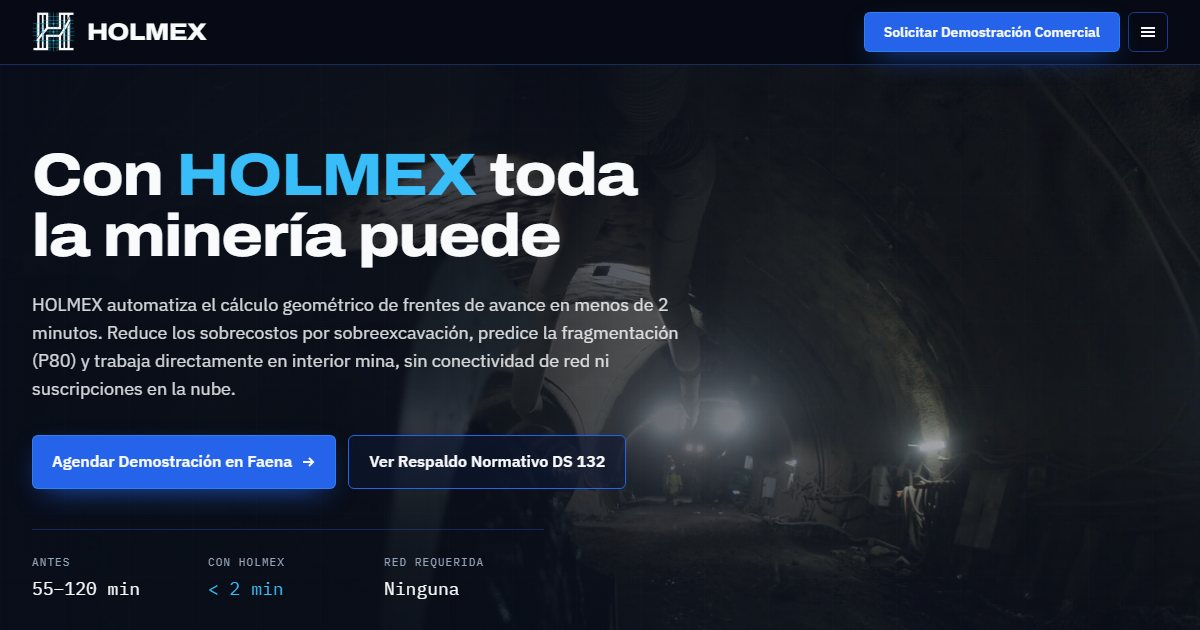
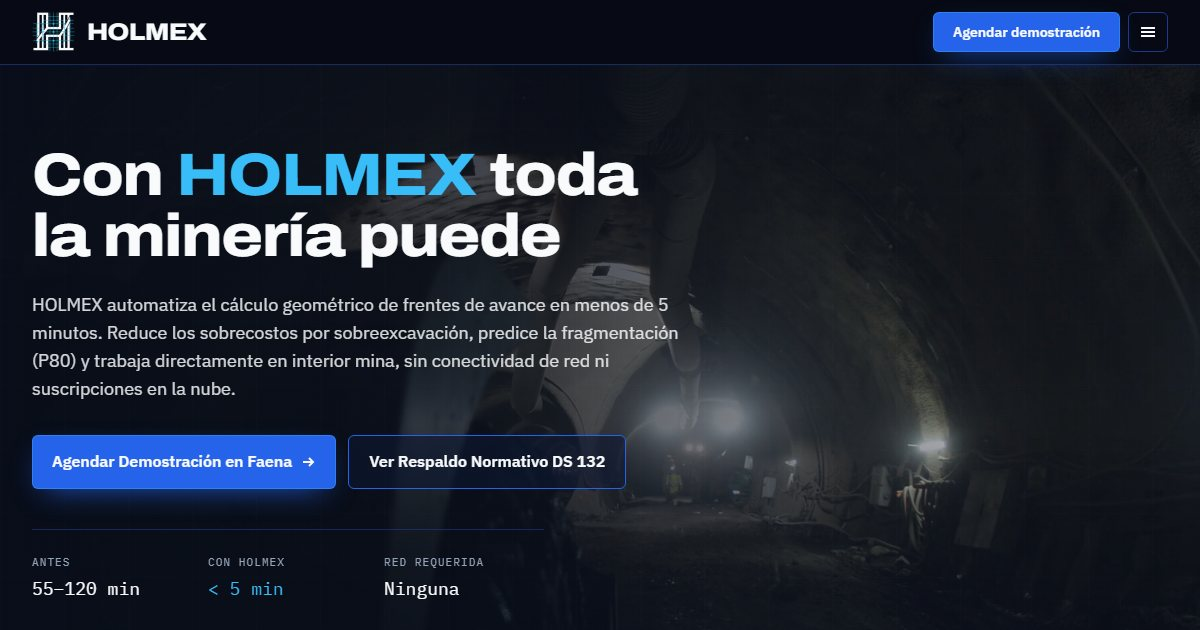
Tiempo de cálculo a 5 minutos, sin DXF y tribunales en La Serena
- Banner, indicadores, carrusel y vista previa con "menos de 5 minutos";
  reducción de tiempo ajustada a >90%.
- Formatos de exportación según el software: PDF, PNG, Excel, CSV e IREDES.
- Se quita el párrafo de la sección de equipo.
- Términos: tribunales de La Serena.

Changed region(s): [[0.7092, 0.0, 0.925, 0.1206]]

diff --git a/src/data/content.js b/src/data/content.js
@@ -18,9 +18,9 @@ export const CONTACT_EMAIL = 'contacto@holmex.cl'
 
 export const PROOF_POINTS = [
   {
-    cifra: '>96%',
+    cifra: '>90%',
     titulo: 'Reducción en tiempo de planificación',
-    texto: 'De 55–120 minutos de cálculo manual por disparo a menos de 2 minutos automatizados.',
+    texto: 'De 55–120 minutos de cálculo manual por disparo a menos de 5 minutos automatizados.',
   },
   {
     cifra: '0 red',
@@ -49,10 +49,10 @@ export const PROBLEMA = [
 
 export const SOLUCION = [
   'Cálculo analítico determinista de toda la malla: rainura, auxiliares, cajas, corona y zapateras.',
-  'Diseño listo en menos de 2 minutos, con la sección dibujada a escala antes de perforar.',
+  'Diseño listo en menos de 5 minutos, con la sección dibujada a escala antes de perforar.',
   'Carga ajustada por RMR y litología, con control de energía en el contorno para proteger techo y cajas.',
   'Guía limpia para el perforista con coordenadas, profundidad y secuencia de salida.',
-  'Expediente operacional inmediato en PDF, DXF y CSV con la procedencia de cada parámetro.',
+  'Expediente operacional inmediato en PDF, Excel, CSV e IREDES con la procedencia de cada parámetro.',
 ]
 
 export const FUNDAMENTOS = [
@@ -94,8 +94,8 @@ export const HERO_VIDEOS = [
   {
     src: '/media/hero-mineria-1080.mp4',
     etiqueta: 'Frente de avance',
-    titulo: 'Geometría del frente calculada en menos de 2 minutos',
-    dato: '< 2 min',
+    titulo: 'Geometría del frente calculada en menos de 5 minutos',
+    dato: '< 5 min',
     datoDetalle: 'Diseño del diagrama de disparo',
     // Autor: Dominik Zítka
     // https://www.pexels.com/video/underground-tunnel-construction-with-heavy-machinery-31752064/
@@ -137,7 +137,7 @@ export const LICENCIA = {
     { criterio: 'Modelo de cobro', valor: 'Pago único por equipo. Sin llaves USB físicas ni mensualidades.' },
     { criterio: 'Requisitos de red', valor: '100% offline nativo, también en interior mina.' },
     { criterio: 'Capacitación', valor: 'Adopción operacional en menos de 3 horas.' },
-    { criterio: 'Entregables a terreno', valor: 'Guías directas en PDF, DXF y CSV para el perforista.' },
+    { criterio: 'Entregables a terreno', valor: 'Memoria en PDF, coordenadas en Excel o CSV y archivo IREDES para el jumbo.' },
     { criterio: 'Trazabilidad de fórmulas', valor: 'Cada constante con obra y página, o marcada como heurística.' },
   ],
   incluye: [
@@ -171,7 +171,7 @@ export const FICHA = [
   ['Interfaz', 'Vue 3 sobre Tauri v2'],
   ['Persistencia', 'SQLite local'],
   ['Inicio de la aplicación', '1,42 s (mediana)'],
-  ['Exportación DXF', '0,3 ms'],
+  ['Exportación', 'PDF, PNG, Excel, CSV e IREDES'],
   ['Cobertura de pruebas del núcleo', '87,5%'],
   ['Telemetría', 'Ninguna'],
 ]
@@ -192,7 +192,7 @@ export const EQUIPO = [
   {
     nombre: 'Joaquín Araya López',
     rol: 'Calidad y Exportación Técnica',
-    detalle: 'Subsistema de exportación PDF/DXF/CSV y plan de pruebas bajo ISO/IEC 25010.',
+    detalle: 'Subsistema de exportación PDF, Excel, CSV e IREDES y plan de pruebas bajo ISO/IEC 25010.',
     foto: 2,
   },
 ]
@@ -270,7 +270,7 @@ export const SOPORTE = {
 export const COMO_FUNCIONA = [
   { titulo: 'Ingrese la labor', texto: 'Sección, largo de barra, diámetros, explosivo y caracterización del macizo con RMR, Q y GSI.' },
   { titulo: 'Calcule en segundos', texto: 'El motor Holmberg dimensiona rainura, zapateras, cajas, coronas y auxiliares, y compara el modo estándar con el recomendado.' },
-  { titulo: 'Revise y ajuste', texto: 'Plano 2D acotado, vista 3D, mapa de energía, radio de daño y curva de fragmentación Kuz-Ram para validar el diseño.' },
+  { titulo: 'Revise y ajuste', texto: 'Plano 2D acotado, modelo 3D con desviación, simuladores de tiempos y de jumbo, mapa de energía y curva Kuz-Ram para validar el diseño.' },
   { titulo: 'Entregue a terreno', texto: 'Memoria técnica en PDF, coordenadas en Excel o CSV y archivo IREDES para el jumbo.' },
 ]
 

diff --git a/src/components/TeamSection.vue b/src/components/TeamSection.vue
@@ -1,15 +1,9 @@
 <template>
   <section id="equipo" class="blueprint border-y border-line/60">
     <div class="gutter mx-auto max-w-7xl py-20">
-      <div class="grid gap-6 lg:grid-cols-[1fr_2fr] lg:items-end">
-        <div>
-          <p class="eyebrow">Equipo fundador</p>
-          <h2 class="display mt-3 text-3xl font-extrabold sm:text-4xl">Ingeniería de software al servicio de la tronadura</h2>
-        </div>
-        <p class="max-w-[62ch] text-mute lg:justify-self-end">
-          Tres ingenieros que trabajan con jefes de operación y planificadores P&amp;T para llevar la escuela sueca de
-          voladura a un software que se usa en la frente, con cada fórmula documentada.
-        </p>
+      <div>
+        <p class="eyebrow">Equipo fundador</p>
+        <h2 class="display mt-3 text-3xl font-extrabold sm:text-4xl">Ingeniería de software al servicio de la tronadura</h2>
       </div>
 
       <ul class="mt-10 grid gap-6 sm:grid-cols-2 lg:grid-cols-3">

diff --git a/src/components/HeroCopy.vue b/src/components/HeroCopy.vue
@@ -5,7 +5,7 @@
     </h1>
 
     <p class="mt-6 max-w-[60ch] text-lg" :class="sobreVideo ? 'text-ink/85' : 'text-mute'">
-      HOLMEX automatiza el cálculo geométrico de frentes de avance en menos de 2 minutos. Reduce los
+      HOLMEX automatiza el cálculo geométrico de frentes de avance en menos de 5 minutos. Reduce los
       sobrecostos por sobreexcavación, predice la fragmentación (P80) y trabaja directamente en interior mina,
       sin conectividad de red ni suscripciones en la nube.
     </p>
@@ -25,7 +25,7 @@
       </div>
       <div>
         <dt class="text-[11px] uppercase tracking-widest text-mute">Con HOLMEX</dt>
-        <dd class="num mt-1 text-lg text-glint">&lt; 2 min</dd>
+        <dd class="num mt-1 text-lg text-glint">&lt; 5 min</dd>
       </div>
       <div>
         <dt class="text-[11px] uppercase tracking-widest text-mute">Red requerida</dt>

diff --git a/index.html b/index.html
@@ -15,7 +15,7 @@
     <meta property="og:locale" content="es_CL" />
     <meta property="og:site_name" content="HOLMEX" />
     <meta property="og:url" content="https://www.holmex.cl/" />
-    <meta property="og:title" content="HOLMEX · Diseño de mallas de tronadura subterránea en menos de 2 minutos" />
+    <meta property="og:title" content="HOLMEX · Diseño de mallas de tronadura subterránea en menos de 5 minutos" />
     <meta property="og:description" content="Software 100% offline para calcular frentes de avance con el método Holmberg, memoria de cálculo y respaldo DS 132." />
     <meta property="og:image" content="https://www.holmex.cl/og-holmex.jpg" />
     <meta property="og:image:width" content="1200" />

diff --git a/src/components/ProblemSolution.vue b/src/components/ProblemSolution.vue
@@ -39,7 +39,7 @@
             </li>
           </ul>
           <div class="mt-6 flex flex-wrap gap-2 border-t border-line/60 pt-5">
-            <span v-for="f in ['PDF', 'DXF', 'CSV']" :key="f" class="rounded bg-volt/20 px-2.5 py-1 font-mono text-xs text-glint">.{{ f.toLowerCase() }}</span>
+            <span v-for="f in ['PDF', 'XLSX', 'CSV', 'PNG']" :key="f" class="rounded bg-volt/20 px-2.5 py-1 font-mono text-xs text-glint">.{{ f.toLowerCase() }}</span>
             <span class="font-mono text-xs leading-7 text-mute">expediente por disparo</span>
           </div>
         </article>

diff --git a/src/data/legal.js b/src/data/legal.js
@@ -7,7 +7,7 @@ export const EMPRESA = {
   razonSocial: '[Razón social de HOLMEX]',
   rut: '[RUT]',
   domicilio: '[Domicilio comercial, comuna, región]',
-  ciudadTribunales: '[Ciudad]',
+  ciudadTribunales: 'La Serena',
   correo: CONTACT_EMAIL,
 }
 
